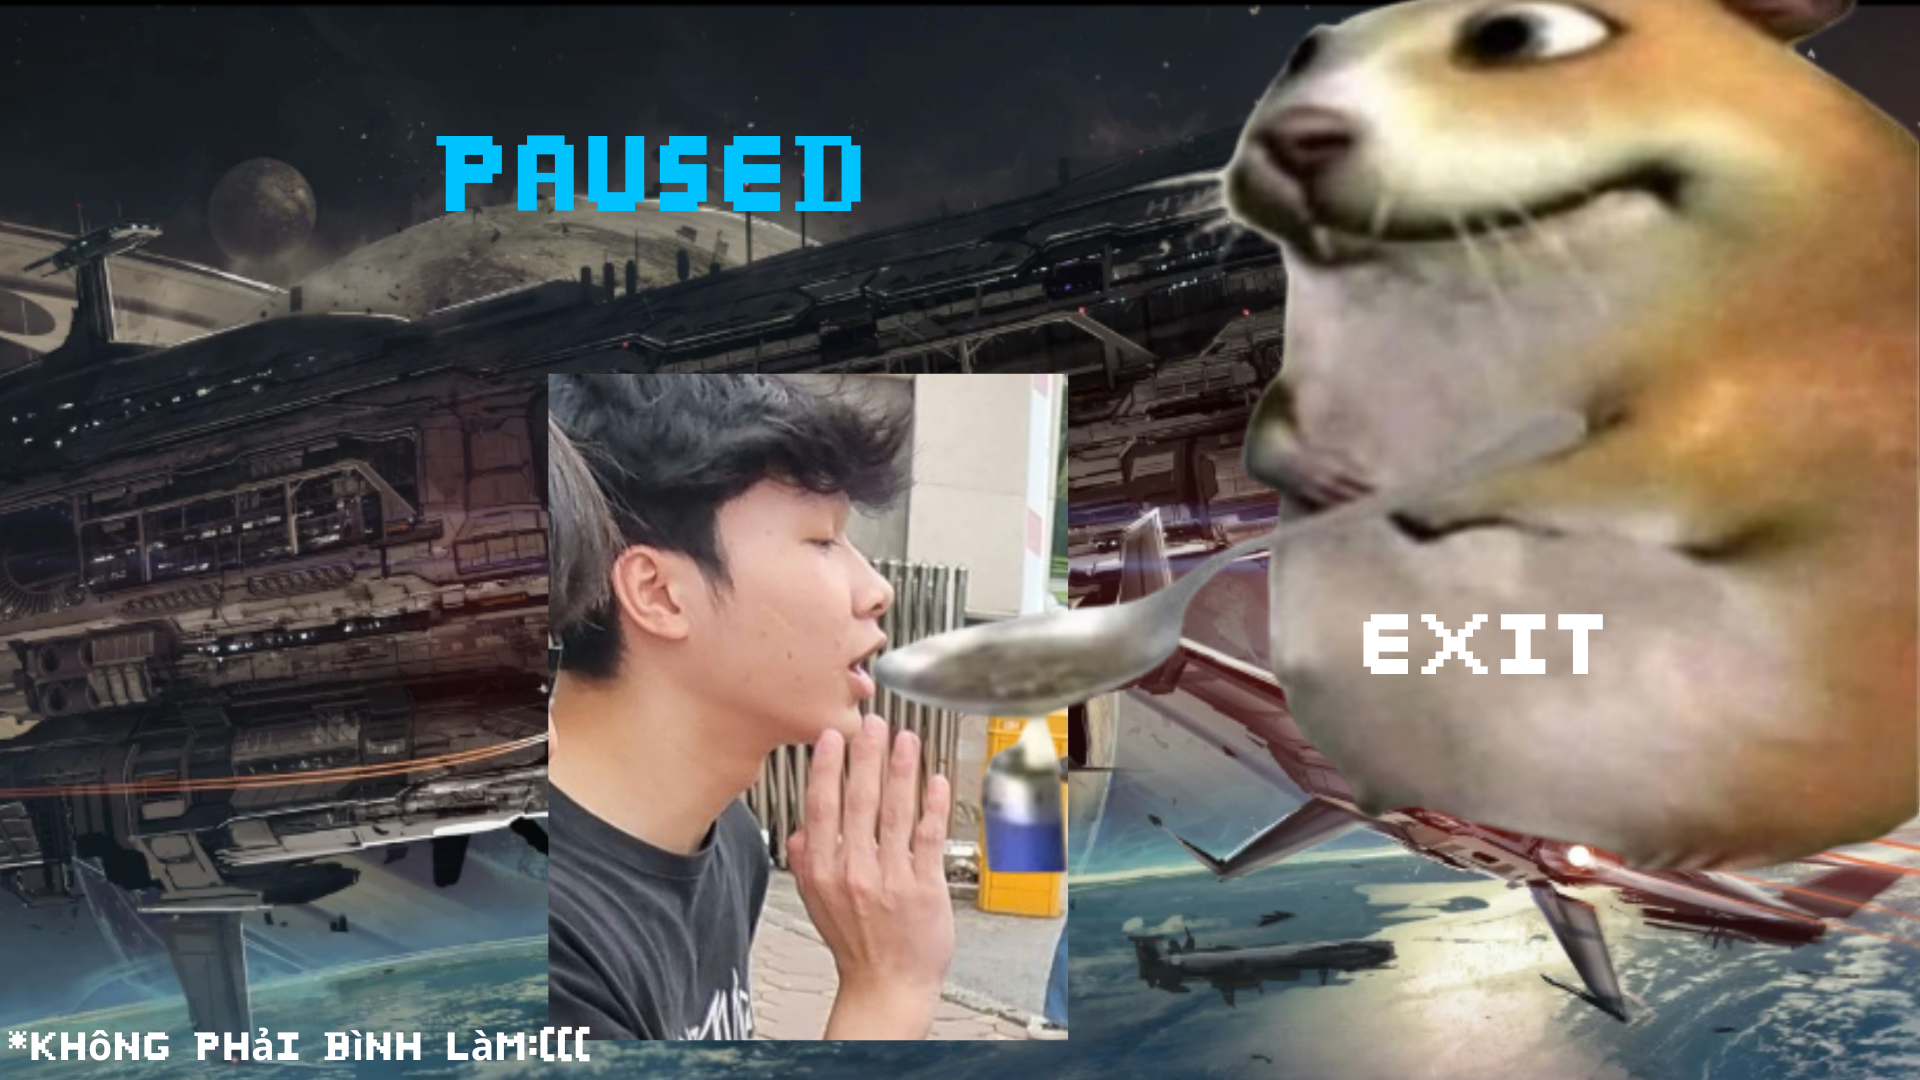
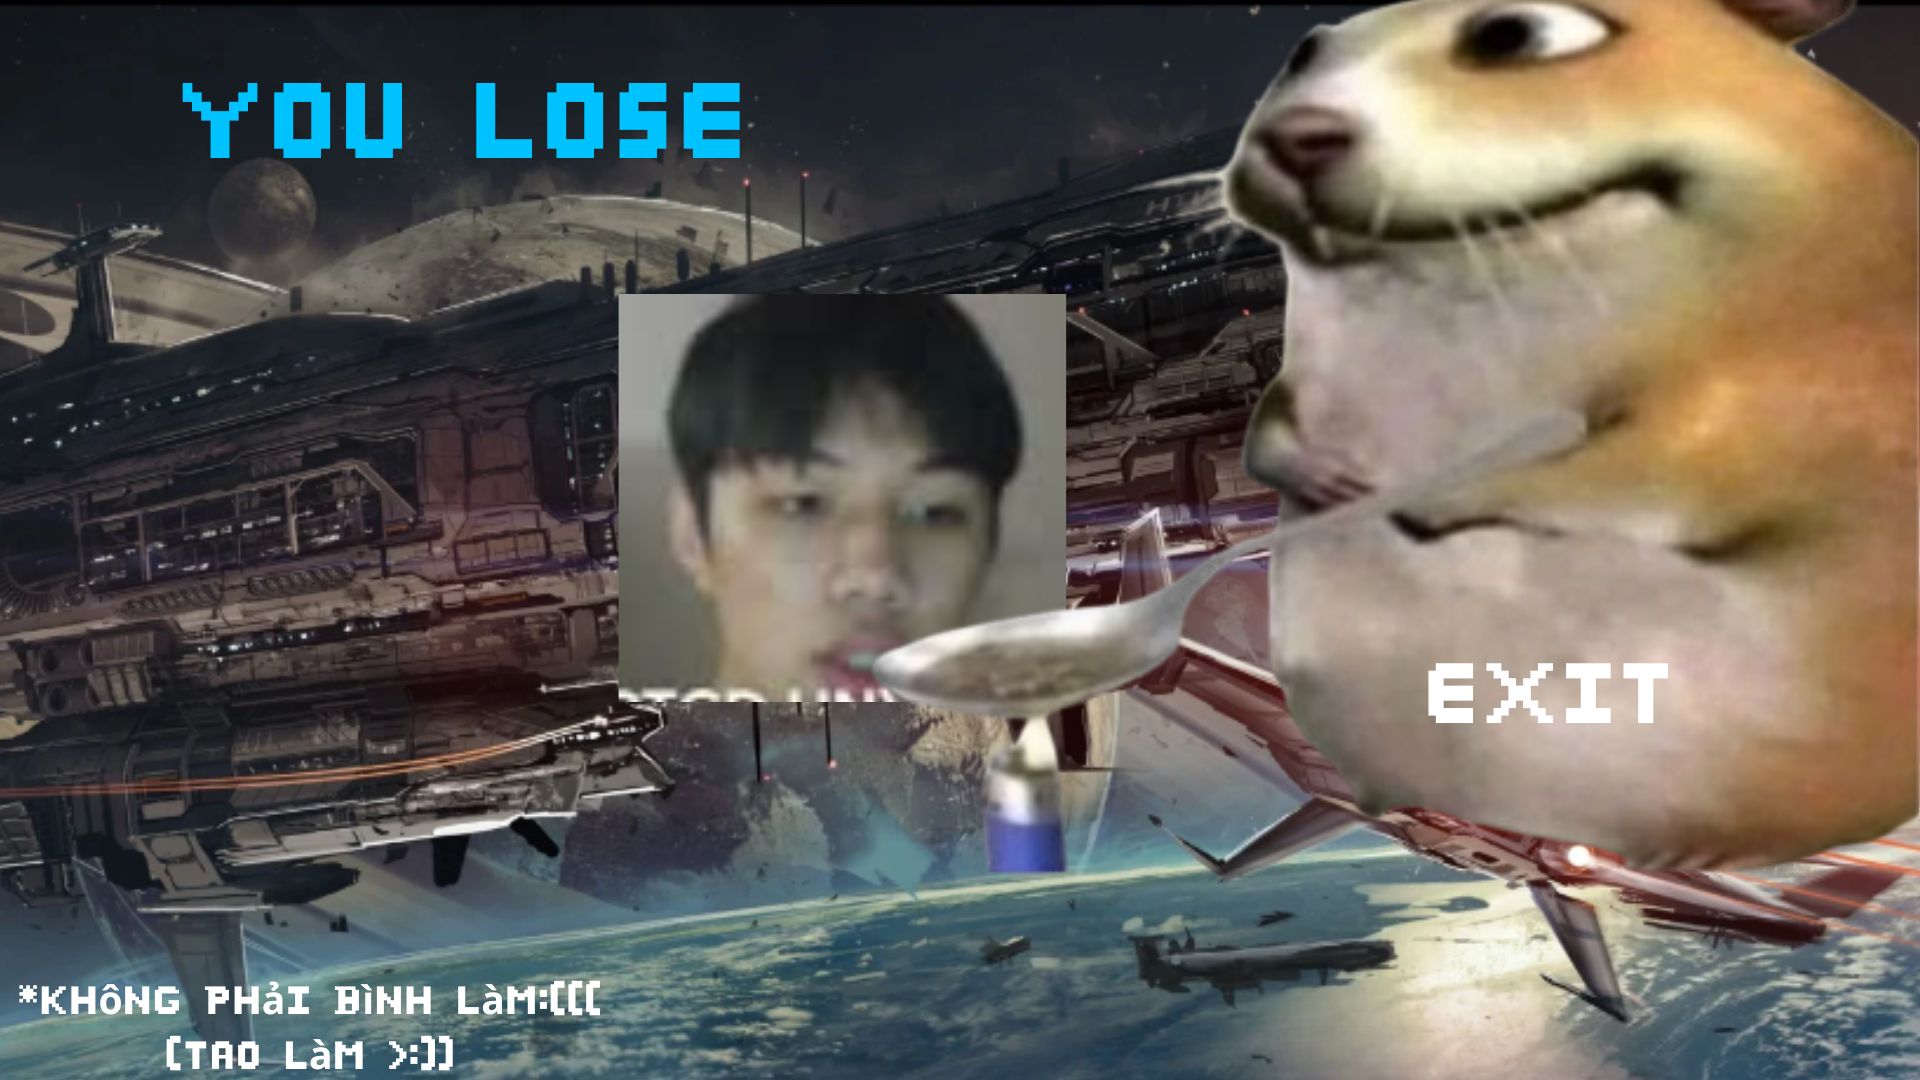
asd

Changed region(s): [[0.0, 0.275, 0.5625, 1.0], [0.0938, 0.0611, 0.4688, 0.2139], [0.6875, 0.55, 0.875, 0.6722]]

diff --git a/core/src/main/java/com/main/MapBossOne.java b/core/src/main/java/com/main/MapBossOne.java
@@ -41,8 +41,10 @@ public class MapBossOne {
 
     private HUD hud;
     private Services services;
+    private PauseScreen pauseScreen;
+
     private boolean paused;
-    private Texture pausedBackground;
+
 
     private int hitOnBoss = 0;
     private int mobKilled = 0;
@@ -53,10 +55,11 @@ public class MapBossOne {
         enemies = new ArrayList<>();
         hud = new HUD();
         services = new Services();
+
+        pauseScreen = new PauseScreen();
         paused = false;
 
-        pausedBackground = new Texture("Stuffs/Paused.png");
-
+        scoreSubmitted = false;
     }
 
     public void update(float deltaTime) {
@@ -70,8 +73,10 @@ public class MapBossOne {
         }
 
 
-        if (!paused) {
+        if (paused) {
+            pauseScreen.update();
 
+        } else {
             if (!bossInitialized) {
                 MusicManager.stopMenuMusic();
                 BossOne = new Boss(1400, middleScreen, screenShake);
@@ -163,8 +168,8 @@ public class MapBossOne {
                 }
 
 
-            ArrayList<Bullet> playerBullets = player.getBullets();
-            Rectangle bossHitbox = BossOne.getHitbox();
+                ArrayList<Bullet> playerBullets = player.getBullets();
+                Rectangle bossHitbox = BossOne.getHitbox();
 
 
                 for (int i = 0; i < playerBullets.size(); i++) {
@@ -223,38 +228,29 @@ public class MapBossOne {
                 }
                 screenShake.update(deltaTime);
             } else {
-//                SUBMIT DAT SCORE
-                float time = hud.getTime();
-                float score = ((hitOnBoss + 50) + (mobKilled + 100)) * ((player.getCurrentHP() / player.getMaxHP()) * 100);
-                LocalDate date = LocalDate.now();
-                String formattedDate = date.format(DateTimeFormatter.ofPattern("yyyy-MM-dd"));
-
                 if (!scoreSubmitted) {
-                    if (submitScore(1, time, formattedDate)) {
-                        System.out.println(services.runStuff());
-                    }
-                    scoreSubmitted = true;
-                }
+                    //                SUBMIT DAT SCORE
+                    float time = hud.getTime();
+                    int score = ((hitOnBoss + 50) + (mobKilled + 100)) * ((player.getCurrentHP() / player.getMaxHP()) * 100);
+                    LocalDate date = LocalDate.now();
+                    String formattedDate = date.format(DateTimeFormatter.ofPattern("yyyy-MM-dd"));
+                    System.out.println(score);
 
-                System.out.println(services.runStuff());
+                    if (!scoreSubmitted) {
+                        if (submitScore(1, score, time, formattedDate)) {
+                        }
+                        scoreSubmitted = true;
+                    }
+                }
             }
         }
 
-        else {
-//            update Paused
-
-        }
 
 
     }
 
-    public void addPlayer() {
-        String name = "Tester";
-
-    }
-
-    public boolean submitScore(int level, float time, String date) {
-        return services.addMatch(level, time, 1, date);
+    public boolean submitScore(int level, int score, float time, String date) {
+        return services.addMatch(level, score, time, date);
     }
 
 
@@ -268,13 +264,11 @@ public class MapBossOne {
 
     public void render(SpriteBatch batch){
 
-        if (!paused) {
             hud.render(batch);
             player.render(batch);
             if (bossInitialized) {
                 BossOne.render(batch);
             }
-
             for (Enemy enemy : enemies){
                 enemy.render(batch);
             }
@@ -288,12 +282,9 @@ public class MapBossOne {
             float shakeY = screenShake.getOffsetY();
 
             batch.setTransformMatrix(batch.getTransformMatrix().idt().translate(shakeX, shakeY, 0));
-        } else {
 //            Draw paused shit
-            batch.begin();
-            batch.draw(pausedBackground, 0, 0, pausedBackground.getWidth(), pausedBackground.getHeight());
-
-            batch.end();
+        if (paused) {
+            pauseScreen.render(batch);
 
         }
 
@@ -319,6 +310,7 @@ public class MapBossOne {
     public void dispose(){
         hud.dispose();
         player.dispose();
+        pauseScreen.dispose();
         if (bossInitialized) {
             BossOne.dispose();
         }

diff --git a/core/src/main/java/com/main/PauseScreen.java b/core/src/main/java/com/main/PauseScreen.java
@@ -1,0 +1,49 @@
+package com.main;
+
+
+import com.badlogic.gdx.Gdx;
+import com.badlogic.gdx.graphics.Texture;
+import com.badlogic.gdx.graphics.g2d.SpriteBatch;
+import com.badlogic.gdx.graphics.glutils.ShapeRenderer;
+import com.badlogic.gdx.math.Rectangle;
+
+
+public class PauseScreen {
+    private Texture pauseScreen;
+    private Rectangle btnHome;
+    private Rectangle btnContinue;
+
+    private ShapeRenderer shapeRenderer;
+
+    public PauseScreen() {
+//        pauseScreen = new Texture("Stuffs/Paused.png");
+        pauseScreen = new Texture("Stuffs/RealPauseScreen.png");
+        btnHome = new Rectangle(700, 420, 100, 30);
+        btnContinue = new Rectangle(790, 420, 100, 30);
+
+        shapeRenderer = new ShapeRenderer();
+    }
+
+    public void update() {
+
+    }
+
+    public void renderHitbox() {
+        shapeRenderer.begin(ShapeRenderer.ShapeType.Line);
+        shapeRenderer.rect(btnHome.x, btnHome.y, btnHome.width, btnHome.height);
+        shapeRenderer.rect(btnContinue.x, btnContinue.y, btnContinue.width, btnContinue.height);
+        shapeRenderer.end();
+    }
+
+    public void render(SpriteBatch batch) {
+        batch.begin();
+        batch.draw(pauseScreen, Gdx.graphics.getWidth() / 2f - pauseScreen.getWidth() / 2f - 150, Gdx.graphics.getHeight() / 2f - pauseScreen.getHeight() / 2f - 150, pauseScreen.getWidth() + 300, pauseScreen.getHeight() + 200);
+        batch.end();
+
+        renderHitbox();
+    }
+
+    public void dispose() {
+        pauseScreen.dispose();
+    }
+}

diff --git a/core/src/main/java/com/main/Service/Services.java b/core/src/main/java/com/main/Service/Services.java
@@ -30,16 +30,16 @@ public class Services {
         return true;
     }
 
-    public boolean addMatch(int level, float time, int playerID, String date) {
+    public boolean addMatch(int level, int score, float time, String date) {
         try (Connection con = DriverManager.getConnection(connectionUrl); PreparedStatement stmt = con.prepareStatement(addMatch)) {
 
             Time timeBeLike = new Time((long) (time * 1000));
             Date dateBeLike = Date.valueOf(date);
 
             stmt.setInt(1, level);
-            stmt.setTime(2, timeBeLike);
-            stmt.setDate(3, dateBeLike);
-            stmt.setInt(4, playerID);
+            stmt.setInt(2, score);
+            stmt.setTime(3, timeBeLike);
+            stmt.setDate(4, dateBeLike);
 
             int rs = stmt.executeUpdate();
 
@@ -57,11 +57,10 @@ public class Services {
     public int runStuff() {
         try (Connection con = DriverManager.getConnection(connectionUrl); PreparedStatement stmt = con.prepareStatement("Select * from Matches where MatchID = 1")) {
 
-
             ResultSet rs = stmt.executeQuery();
 
             while (rs.next()) {
-                int rss = rs.getInt("PlayerID");
+                int rss = rs.getInt("Score");
                 return rss;
             }
 

diff --git a/core/src/main/java/com/main/Bullet.java b/core/src/main/java/com/main/Bullet.java
@@ -87,7 +87,7 @@ public class Bullet {
         this.bulletHitbox = playerBulletHitbox;
 
 
-        damage = 10;
+        damage = 1000;
     }
     //Đạn spiral
     public Bullet(float startX, float startY, float targetX, float targetY, float speed, Animation<TextureRegion> bulletAnimation, float width, float height, float radius, int damage) {
